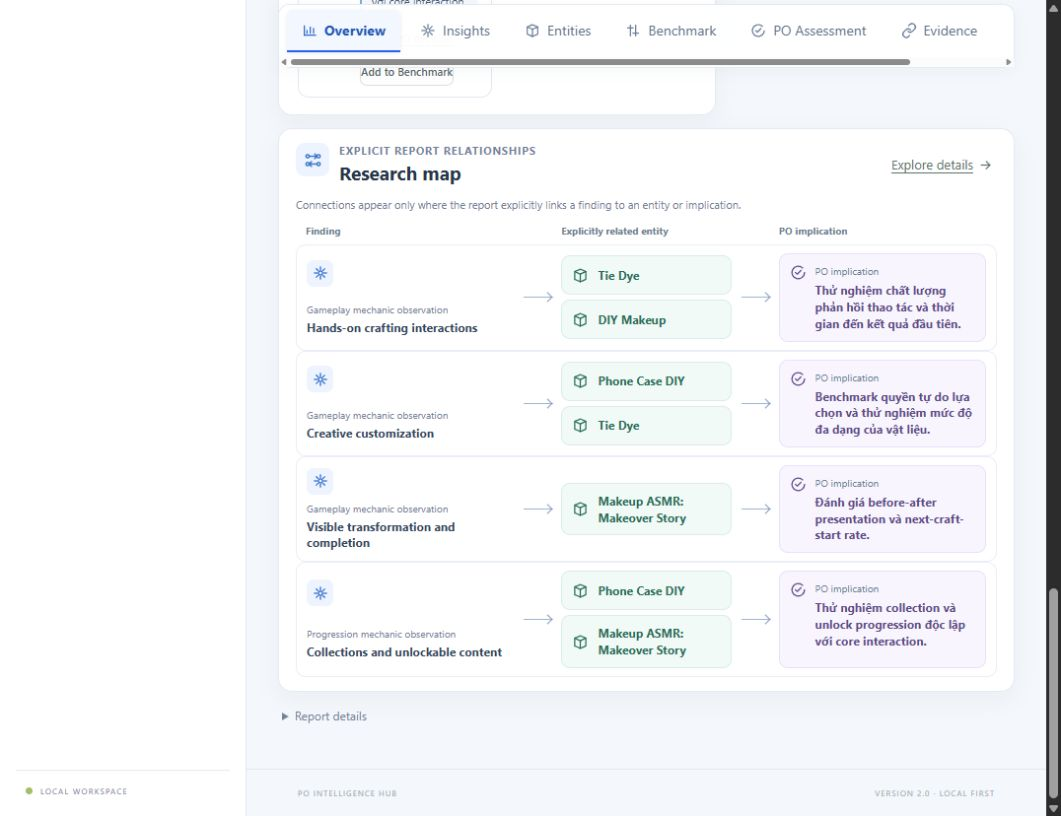
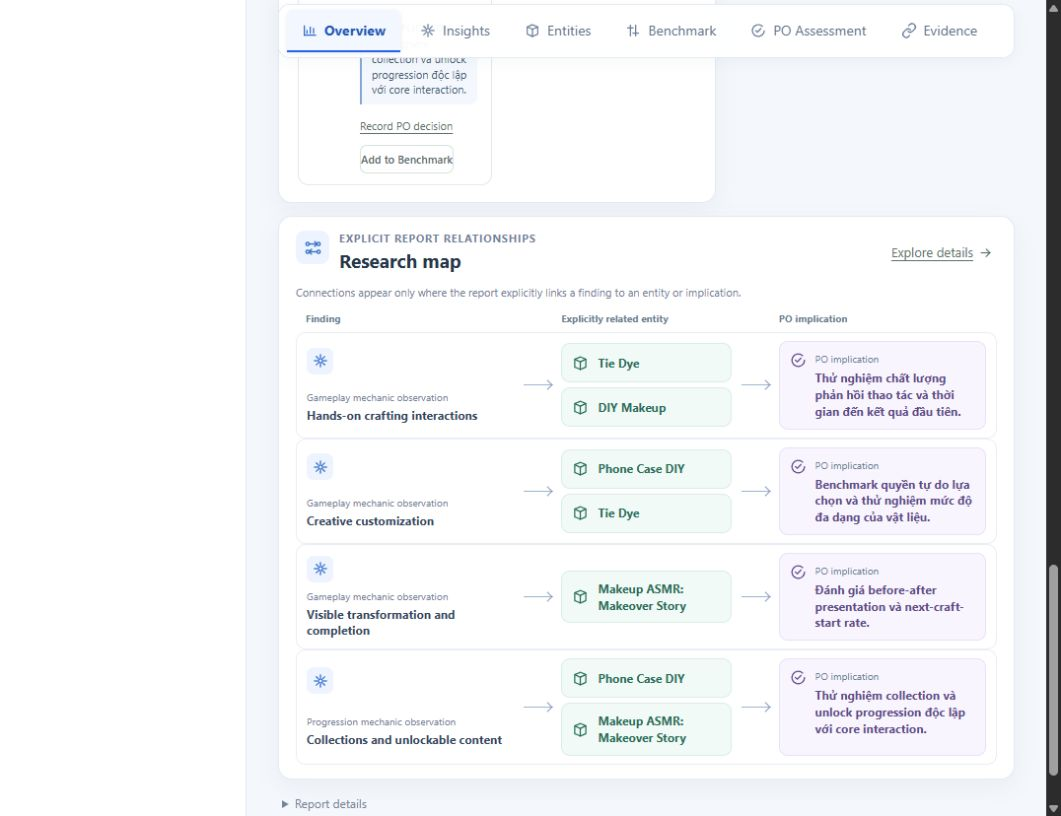
docs: record UI-01 visual fidelity review

diff --git a/.bangiao/UI-01-VISUAL-FIDELITY-FIX.md b/.bangiao/UI-01-VISUAL-FIDELITY-FIX.md
@@ -1,0 +1,56 @@
+# UI-01 — Visual Fidelity Fix
+
+## Delivery
+
+- Branch: `feat/ux-recovery-01-research-results`
+- Implementation commit: `bb6c2492158e5dd2aacf3e54550f78853500ca25`
+- Product scope: approved qualitative V1 only. No backend, database, CSV, or V2 changes.
+
+## What changed
+
+- Added a reusable, dependency-free SVG icon set for workspace navigation, Results sections, finding types, evidence, decisions, and actions. Finding icons use only exact supported type names; unknown types use a neutral icon.
+- Reworked finding cards with stronger titles, compact descriptions, explicit related entities, visible reference count and unverified status, expandable source links, PO implication, and clear insight navigation.
+- Replaced the text-and-arrow Research Map with three aligned node columns. Finding-to-entity edges render only for the report’s `related_entities` keys. PO implication nodes render only when the finding supplies an implication. Missing relationships use compact “not supplied” states.
+- Added focused assertions for semantic icons, evidence count, and explicit map connectors. Existing assessment, note, benchmark, and source behavior is unchanged.
+
+## Mockup comparison
+
+**Matched:** compact report title and scope, side-by-side conclusion and takeaways, two-column findings, secondary snapshot/gaps/PO rail, semantic icon containers, and three-column relationship map.
+
+**Differences:** the app retains its current workspace sidebar and Results tabs. The approved reference uses a wider 1536px canvas; the available in-app browser measured 1076 × 828 CSS pixels, so cards wrap more and the viewport shows less content. The current report has qualitative data only, so no charts or quantitative widgets appear.
+
+**Remaining limitation:** exact 1440 × 900 and 390px screenshots were unavailable in this browser session. Those viewport checks are **NOT VERIFIED**. At the available 1076 × 828 viewport, the page had no document-level horizontal overflow; the Results tabs remain horizontally scrollable when their labels do not fit.
+
+## Browser screenshots
+
+All screenshots below are from the running local app with an existing imported DIY Game report, served against the isolated UAT SQLite copy. They are not generated mockups.
+
+- Overview first viewport: [overview-first-viewport.png](screenshots/ui-01-visual-fidelity/overview-first-viewport.png)
+- Findings with snapshot, gaps and PO next steps: [findings.png](screenshots/ui-01-visual-fidelity/findings.png)
+- Research Map: [research-map.png](screenshots/ui-01-visual-fidelity/research-map.png)
+- Selected insight detail and source context: [insight-detail.png](screenshots/ui-01-visual-fidelity/insight-detail.png)
+
+## Verification
+
+- Frontend tests: **36 passed** across 3 test files.
+- TypeScript and production build: **passed** (`npm run build`).
+- Browser check: opened an existing qualitative report, inspected Overview, opened the Insights tab, confirmed source references and uncertainty are visible, and inspected the Research Map. No report edits were made during this check.
+- Browser viewport measured: 1076 × 828 CSS pixels; document horizontal overflow: **false**.
+- 1440 × 900 and 390px responsive screenshot checks: **NOT VERIFIED** because the available in-app browser did not expose viewport resizing.
+- Backend tests: not rerun; no backend files or contracts changed.
+- Production SQLite was not opened for this UAT; the app used `data/.uat-ux-recovery-01`.
+
+## Files changed
+
+- `frontend/src/ui/ResultsIcon.tsx`
+- `frontend/src/main.tsx`
+- `frontend/src/reports/ReportResults.tsx`
+- `frontend/src/reports/ResearchIntake.test.tsx`
+- `frontend/src/style.css`
+- `.bangiao/screenshots/ui-01-visual-fidelity/*`
+
+Existing user changes in `scripts/setup.ps1` and `.devcrew/` were left untouched and excluded from the implementation commit.
+
+## Product review
+
+**NEED OWNER REVIEW.** The visual direction now follows the approved V1 structure more closely and the Research Map represents only supplied relationships. Exact desktop and mobile viewport fidelity remains unverified.
